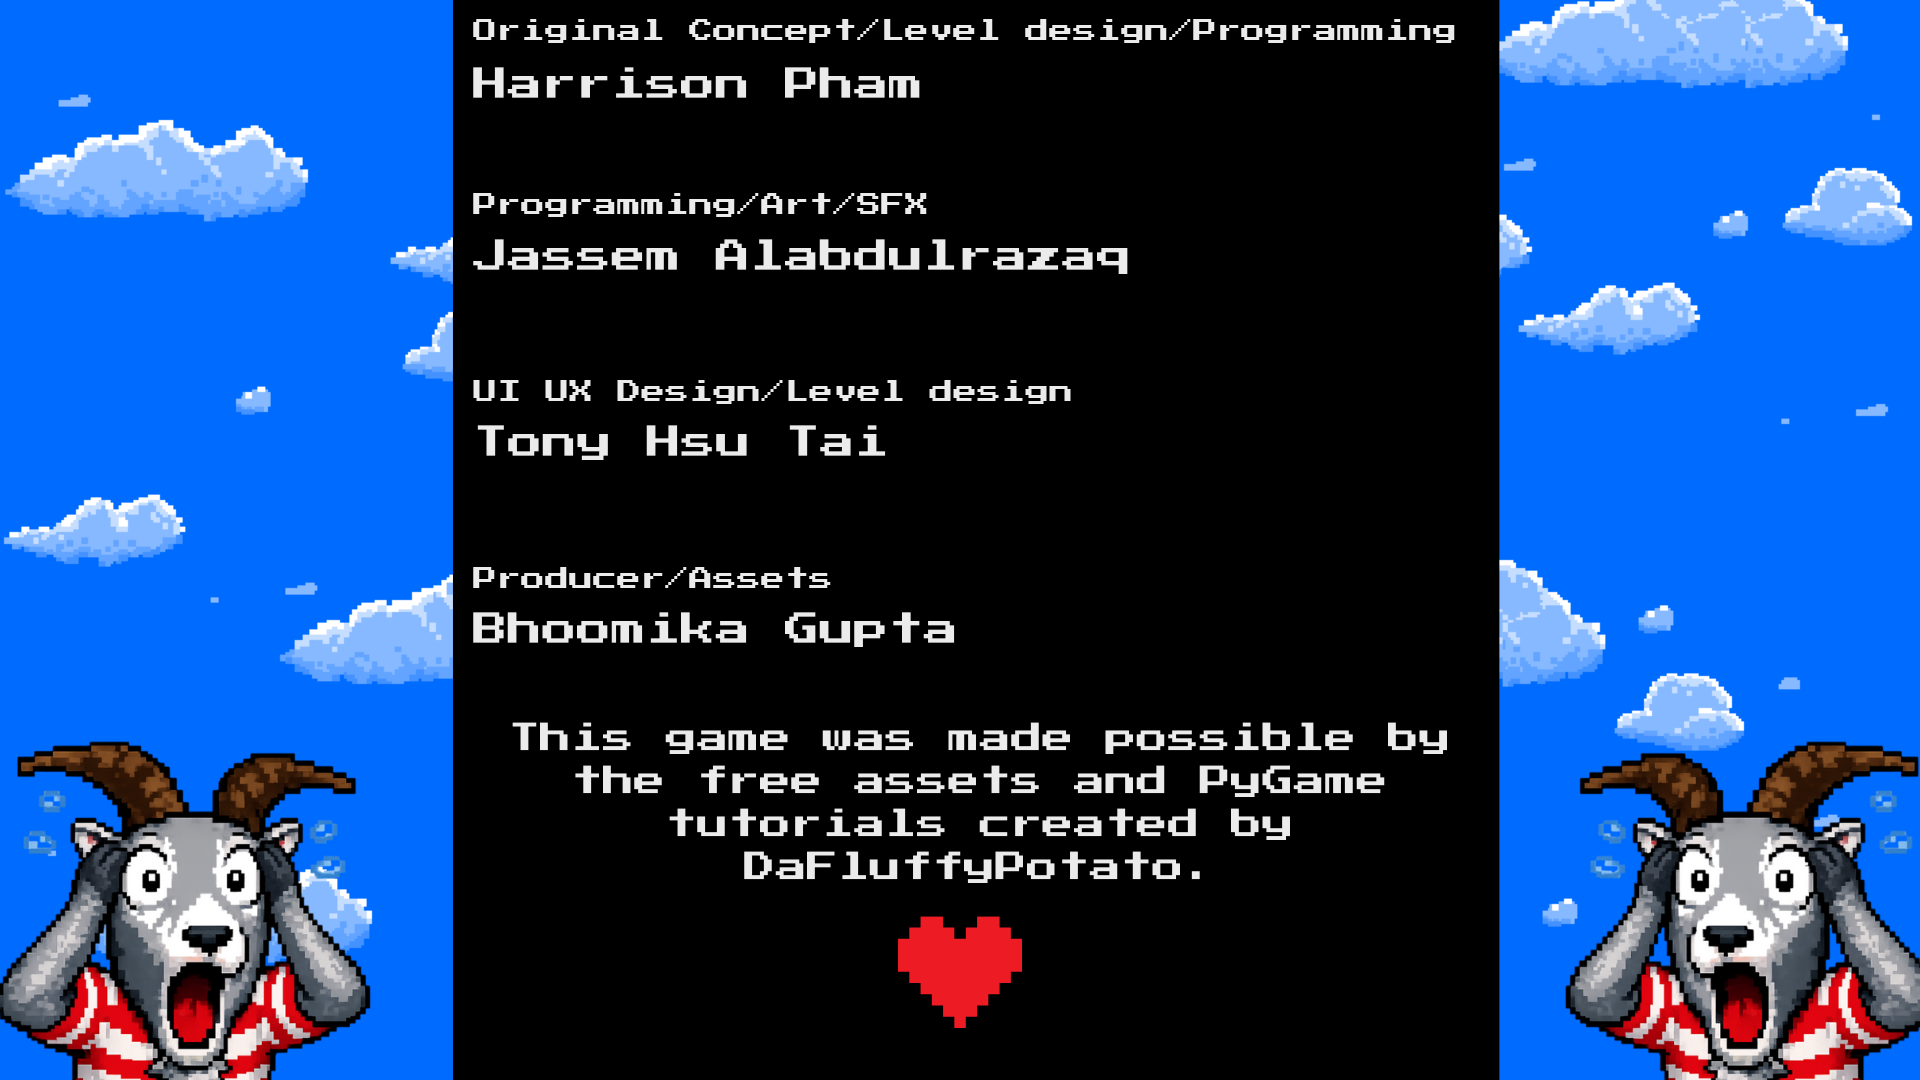
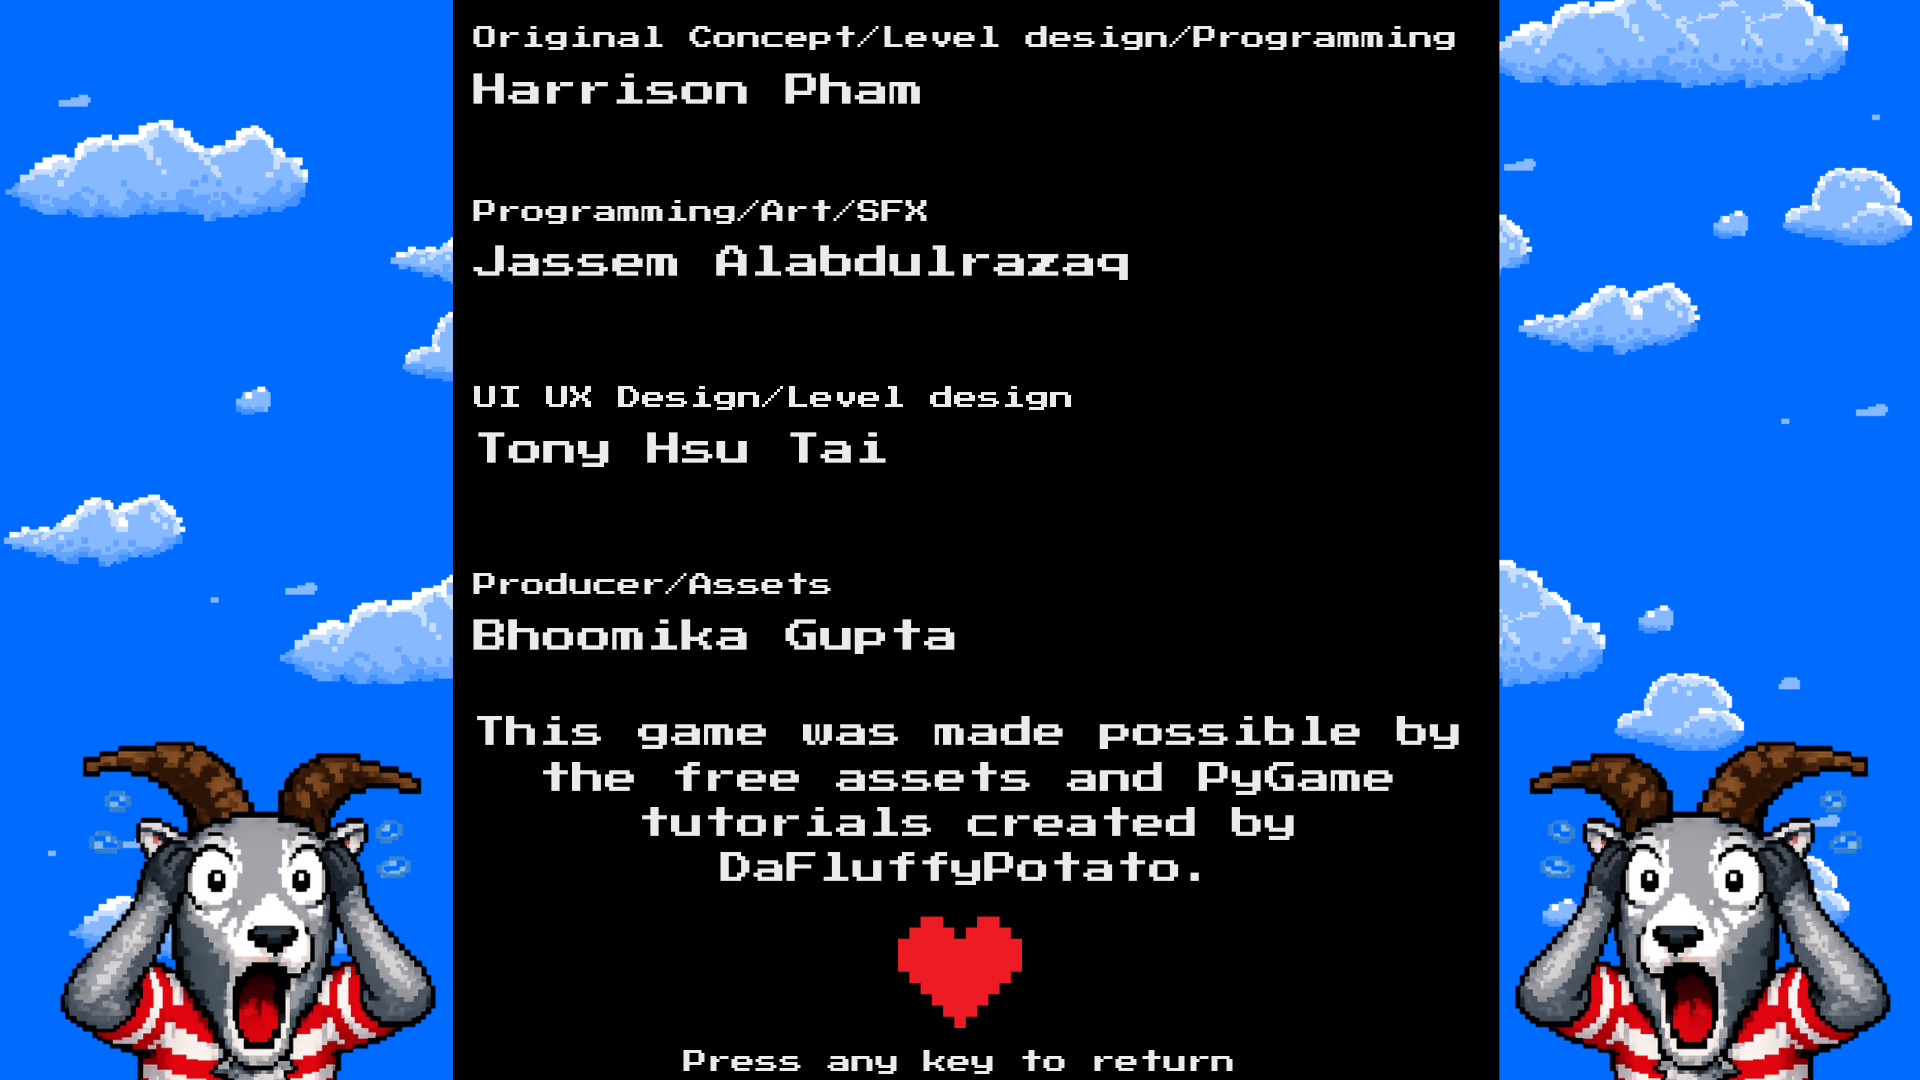
fix: credits

diff --git a/main.py b/main.py
@@ -376,6 +376,14 @@ def main():
             # Stop menu music when quitting
             pygame.mixer.music.stop()
             break
+        elif choice == "CREDITS":
+            # Stop menu music when showing credits
+            pygame.mixer.music.stop()
+            # Fade out from homepage
+            fade_transition(duration=0.25, fade_out=True)
+            run_credits(screen)
+            # Fade in to homepage after credits
+            fade_transition(duration=0.25, fade_out=False)
         elif choice == "SELECT_LEVEL":
             # Fade out from homepage (keep music playing - it continues in level selection)
             fade_transition(duration=0.25, fade_out=True)
